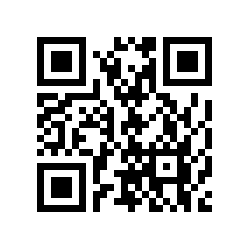
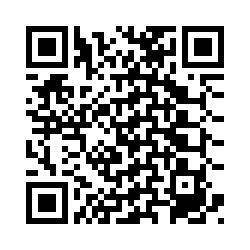
Сохранение QR в базу

diff --git a/src/main/java/com/chsu/chsumodilebackend/services/QrCodeGenerator.java b/src/main/java/com/chsu/chsumodilebackend/services/QrCodeGenerator.java
@@ -1,5 +1,7 @@
 package com.chsu.chsumodilebackend.services;
 
+import com.chsu.chsumodilebackend.dao.QrRepository;
+import com.chsu.chsumodilebackend.models.Qr;
 import com.chsu.chsumodilebackend.models.User;
 import com.google.zxing.BarcodeFormat;
 import com.google.zxing.EncodeHintType;
@@ -7,43 +9,58 @@ import com.google.zxing.WriterException;
 import com.google.zxing.common.BitMatrix;
 import com.google.zxing.qrcode.QRCodeWriter;
 import com.google.zxing.qrcode.decoder.ErrorCorrectionLevel;
+import org.springframework.beans.factory.annotation.Autowired;
 import org.springframework.stereotype.Service;
 
 import javax.imageio.ImageIO;
+import javax.persistence.criteria.CriteriaBuilder;
+import javax.persistence.criteria.Path;
 import java.awt.*;
 import java.awt.image.BufferedImage;
+import java.awt.image.DataBuffer;
 import java.io.ByteArrayOutputStream;
 import java.io.File;
+import java.io.FileInputStream;
 import java.io.IOException;
+import java.nio.file.Files;
+
+import java.util.*;
 import java.util.Hashtable;
+import java.util.List;
 
 @Service
 public class QrCodeGenerator {
 
-    public void getQr(User user) {
-        String qrCodeText = user.getName().concat(user.getSurname().concat(user.getPatronymic()).concat(user.getJobTitle()));
-        String filePath = "JD.png";
-        String fileType = "png";
-        File qrFile = new File(filePath);
+    @Autowired
+    QrRepository qrRepository;
+
+
+    public byte [] saveQr(User user, String lesson, String time) {
+        Qr myQr = new Qr();
+        String qrCodeText = user.getName().concat(lesson).concat(time);
         try {
-            generateQr(qrFile, qrCodeText, fileType);
+            myQr.setQr(generateQr(qrCodeText));
+            return qrRepository.save(myQr).getQr();
         } catch (Exception ex) {
-            ex.printStackTrace();
+            return null;
         }
     }
 
-    public void generateQr(File qrFile, String qrCodeText, String fileType) throws WriterException, IOException {
+    public byte [] generateQr(String qrCodeText) throws WriterException, IOException {
+        String filePath = "JD.png";
+        String fileType = "png";
+        File qrFile = new File(filePath);
         Hashtable hintMap = new Hashtable<>();
         hintMap.put(EncodeHintType.ERROR_CORRECTION, ErrorCorrectionLevel.L);
         QRCodeWriter qrCodeWriter = new QRCodeWriter();
         BitMatrix byteMatrix = qrCodeWriter.encode(qrCodeText, BarcodeFormat.QR_CODE, 250, 250, hintMap);
         BufferedImage image = new BufferedImage(byteMatrix.getWidth(), byteMatrix.getHeight(), BufferedImage.TYPE_INT_RGB);
         image.createGraphics();
-
         Graphics2D graphics2D = (Graphics2D) image.getGraphics();
         graphics2D.setColor(Color.WHITE);
         graphics2D.fillRect(0, 0 , byteMatrix.getWidth(), byteMatrix.getHeight());
         graphics2D.setColor(Color.BLACK);
+
 
         for (int i = 0; i<byteMatrix.getWidth(); i++){
             for (int j = 0; j<byteMatrix.getWidth(); j++){
@@ -52,6 +69,13 @@ public class QrCodeGenerator {
                 }
             }
         }
-        ImageIO.write(image, fileType, qrFile);
+
+
+        BufferedImage bImage = ImageIO.read(new File("JD.png"));
+        ByteArrayOutputStream bos = new ByteArrayOutputStream();
+        ImageIO.write(bImage, "jpg", bos);
+        byte [] data = bos.toByteArray();
+        return data;
     }
+
 }

diff --git a/src/main/java/com/chsu/chsumodilebackend/controllers/QRContoller.java b/src/main/java/com/chsu/chsumodilebackend/controllers/QRContoller.java
@@ -1,0 +1,31 @@
+package com.chsu.chsumodilebackend.controllers;
+
+import com.chsu.chsumodilebackend.services.QrCodeGenerator;
+import com.chsu.chsumodilebackend.services.UserService;
+import com.google.zxing.common.BitMatrix;
+import org.springframework.beans.factory.annotation.Autowired;
+import org.springframework.http.ResponseEntity;
+import org.springframework.stereotype.Controller;
+import org.springframework.web.bind.annotation.CrossOrigin;
+import org.springframework.web.bind.annotation.GetMapping;
+import org.springframework.web.bind.annotation.RequestMapping;
+import org.springframework.web.bind.annotation.RequestParam;
+
+import java.awt.image.DataBuffer;
+
+@Controller
+@RequestMapping("/qr")
+@CrossOrigin
+public class QRContoller {
+
+    @Autowired
+    QrCodeGenerator qrCodeGenerator;
+
+    @Autowired
+    UserService userService;
+
+    @GetMapping(value = "/getQr")
+    public ResponseEntity<byte []> getQrCode (@RequestParam String login, @RequestParam String lesson, @RequestParam String time) {
+        return ResponseEntity.ok(qrCodeGenerator.saveQr(userService.findByLogin(login), lesson, time));
+    }
+}

diff --git a/src/main/java/com/chsu/chsumodilebackend/models/Qr.java b/src/main/java/com/chsu/chsumodilebackend/models/Qr.java
@@ -1,0 +1,23 @@
+package com.chsu.chsumodilebackend.models;
+
+import lombok.AllArgsConstructor;
+import lombok.Getter;
+import lombok.NoArgsConstructor;
+import lombok.Setter;
+
+import javax.persistence.*;
+
+@Entity
+@AllArgsConstructor
+@NoArgsConstructor
+@Getter
+@Setter
+@Table(schema = "public", name = "qrcods")
+public class Qr {
+    @Id
+    @GeneratedValue(strategy = GenerationType.IDENTITY)
+    private Integer id;
+    private byte[] qr;
+
+
+}

diff --git a/src/main/java/com/chsu/chsumodilebackend/dao/QrRepository.java b/src/main/java/com/chsu/chsumodilebackend/dao/QrRepository.java
@@ -1,0 +1,10 @@
+package com.chsu.chsumodilebackend.dao;
+
+import com.chsu.chsumodilebackend.models.Qr;
+import org.springframework.data.repository.CrudRepository;
+import org.springframework.stereotype.Repository;
+
+@Repository
+public interface QrRepository extends CrudRepository<Qr, Integer> {
+
+}

diff --git a/src/main/java/com/chsu/chsumodilebackend/services/UserService.java b/src/main/java/com/chsu/chsumodilebackend/services/UserService.java
@@ -28,7 +28,6 @@ public class UserService {
         User user = userRepository.findByLogin(login);
         if(user.getJobTitle().equals("teacher")){
             user.setLessons(lessonService.findAllByLogin(login));
-            qrCodeGenerator.getQr(user);
         }
         return user;
     }
